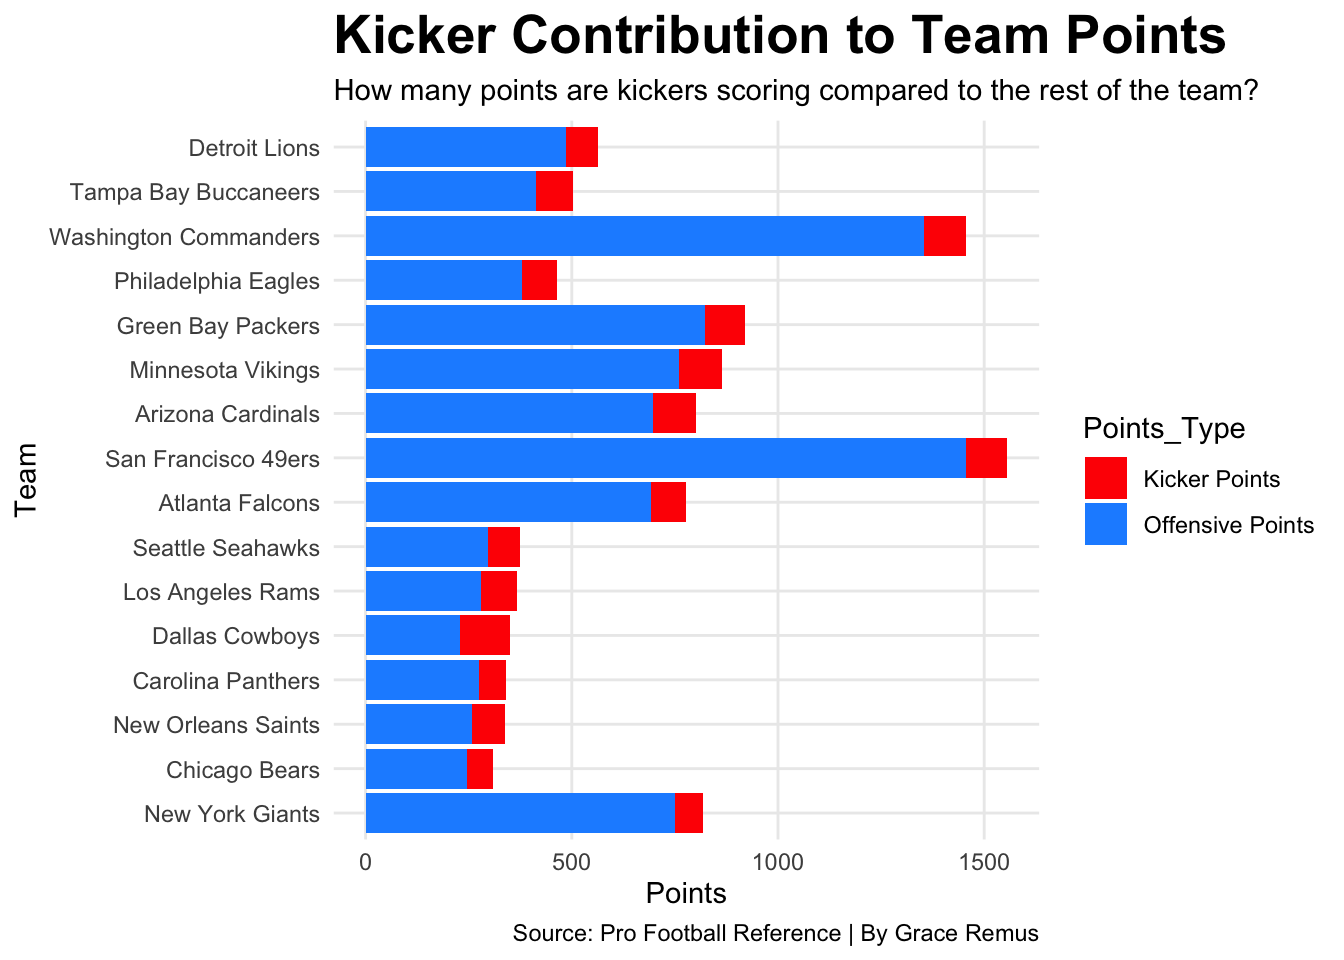
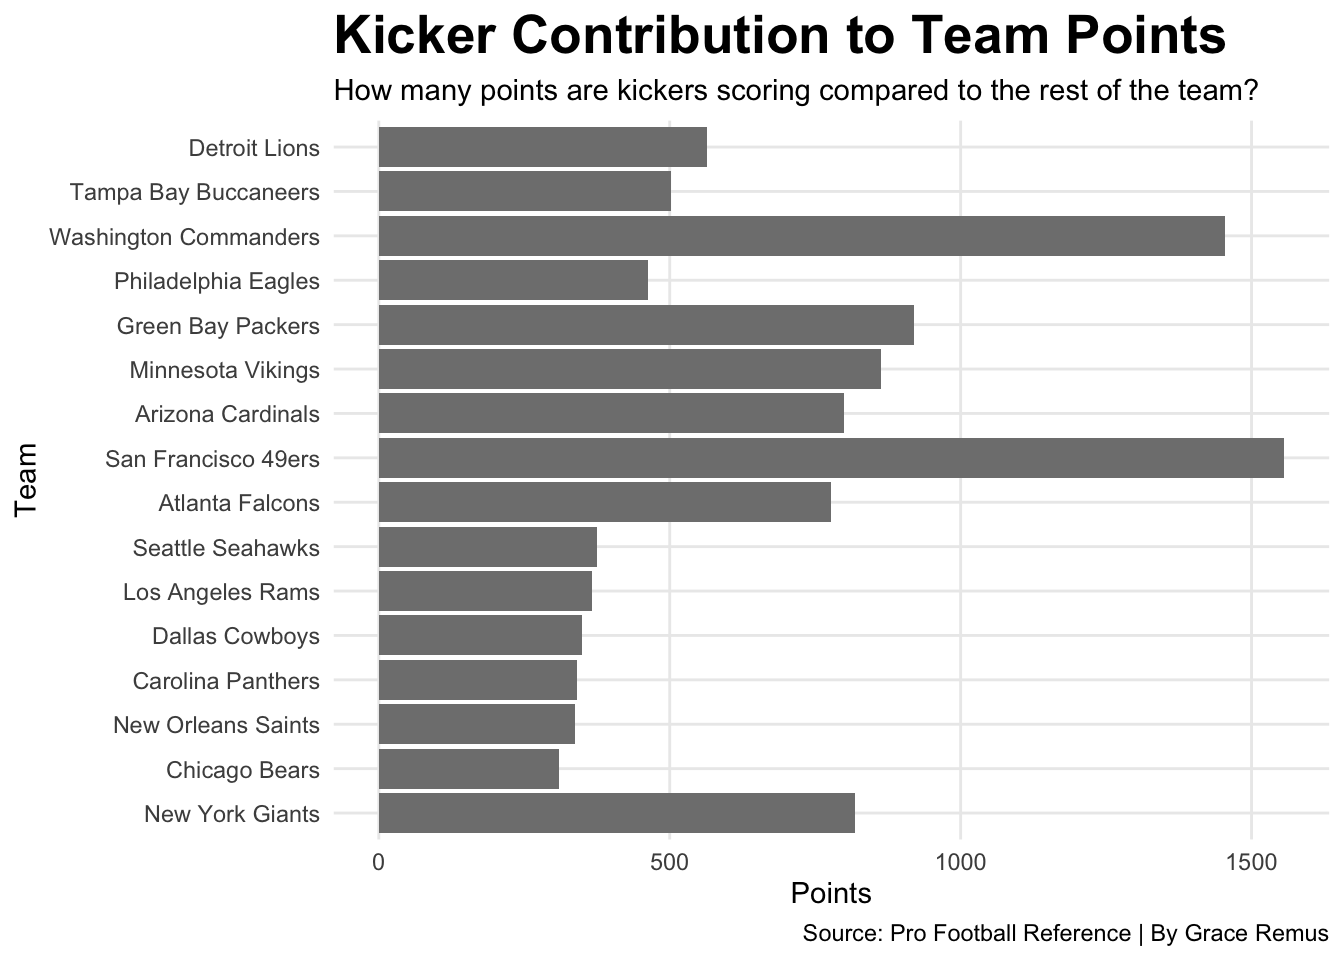
okdone

diff --git a/posts/kicker-value-to-getting-wins/index.html b/posts/kicker-value-to-getting-wins/index.html
@@ -286,10 +286,10 @@ pre > code.sourceCode > span > a:first-child::before { text-decoration: underlin
 <span id="cb2-9"><a href="#cb2-9" aria-hidden="true" tabindex="-1"></a>nfc_long <span class="ot">&lt;-</span> nfc_kicking_2024 <span class="sc">|&gt;</span></span>
 <span id="cb2-10"><a href="#cb2-10" aria-hidden="true" tabindex="-1"></a>  <span class="fu">pivot_longer</span>(</span>
 <span id="cb2-11"><a href="#cb2-11" aria-hidden="true" tabindex="-1"></a>    <span class="at">cols =</span> <span class="fu">c</span>(other_PTS,kicker_PTS),</span>
-<span id="cb2-12"><a href="#cb2-12" aria-hidden="true" tabindex="-1"></a>    <span class="at">names_to =</span> <span class="st">"Points_Type"</span>,</span>
+<span id="cb2-12"><a href="#cb2-12" aria-hidden="true" tabindex="-1"></a>    <span class="at">names_to =</span> <span class="st">"Point Totals"</span>,</span>
 <span id="cb2-13"><a href="#cb2-13" aria-hidden="true" tabindex="-1"></a>    <span class="at">values_to =</span> <span class="st">"Points"</span>)</span>
 <span id="cb2-14"><a href="#cb2-14" aria-hidden="true" tabindex="-1"></a></span>
-<span id="cb2-15"><a href="#cb2-15" aria-hidden="true" tabindex="-1"></a><span class="fu">ggplot</span>(nfc_long, <span class="fu">aes</span>(<span class="at">x =</span> <span class="fu">reorder</span>(Team, TeamPts), <span class="at">y =</span> Points, <span class="at">fill =</span> Points_Type)) <span class="sc">+</span></span>
+<span id="cb2-15"><a href="#cb2-15" aria-hidden="true" tabindex="-1"></a><span class="fu">ggplot</span>(nfc_long, <span class="fu">aes</span>(<span class="at">x =</span> <span class="fu">reorder</span>(Team, TeamPts), <span class="at">y =</span> Points, <span class="at">fill =</span> <span class="st">"Point Totals"</span>)) <span class="sc">+</span></span>
 <span id="cb2-16"><a href="#cb2-16" aria-hidden="true" tabindex="-1"></a>  <span class="fu">geom_col</span>() <span class="sc">+</span></span>
 <span id="cb2-17"><a href="#cb2-17" aria-hidden="true" tabindex="-1"></a>  <span class="fu">coord_flip</span>() <span class="sc">+</span></span>
 <span id="cb2-18"><a href="#cb2-18" aria-hidden="true" tabindex="-1"></a>  <span class="fu">scale_fill_manual</span>(<span class="at">values =</span> <span class="fu">c</span>(<span class="st">"kicker_PTS"</span> <span class="ot">=</span> <span class="st">"red"</span>, <span class="st">"other_PTS"</span> <span class="ot">=</span> <span class="st">"dodgerblue"</span>),</span>

diff --git a/index.html b/index.html
@@ -209,7 +209,7 @@ window.Quarto = {
 
 <div class="quarto-listing quarto-listing-container-default" id="listing-listing">
 <div class="list quarto-listing-default">
-<div class="quarto-post image-right" data-index="0" data-categories="Zm9vdGJhbGwlMkNuZmwlMkNraWNrZXI=" data-listing-date-sort="1763359200000" data-listing-file-modified-sort="1763428911316" data-listing-date-modified-sort="NaN" data-listing-reading-time-sort="8" data-listing-word-count-sort="1465">
+<div class="quarto-post image-right" data-index="0" data-categories="Zm9vdGJhbGwlMkNuZmwlMkNraWNrZXI=" data-listing-date-sort="1763359200000" data-listing-file-modified-sort="1763429192655" data-listing-date-modified-sort="NaN" data-listing-reading-time-sort="8" data-listing-word-count-sort="1467">
 <div class="thumbnail"><a href="./posts/kicker-value-to-getting-wins/index.html" class="no-external">
 
 <img loading="lazy" src="./posts/kicker-value-to-getting-wins/image.png" class="thumbnail-image">
